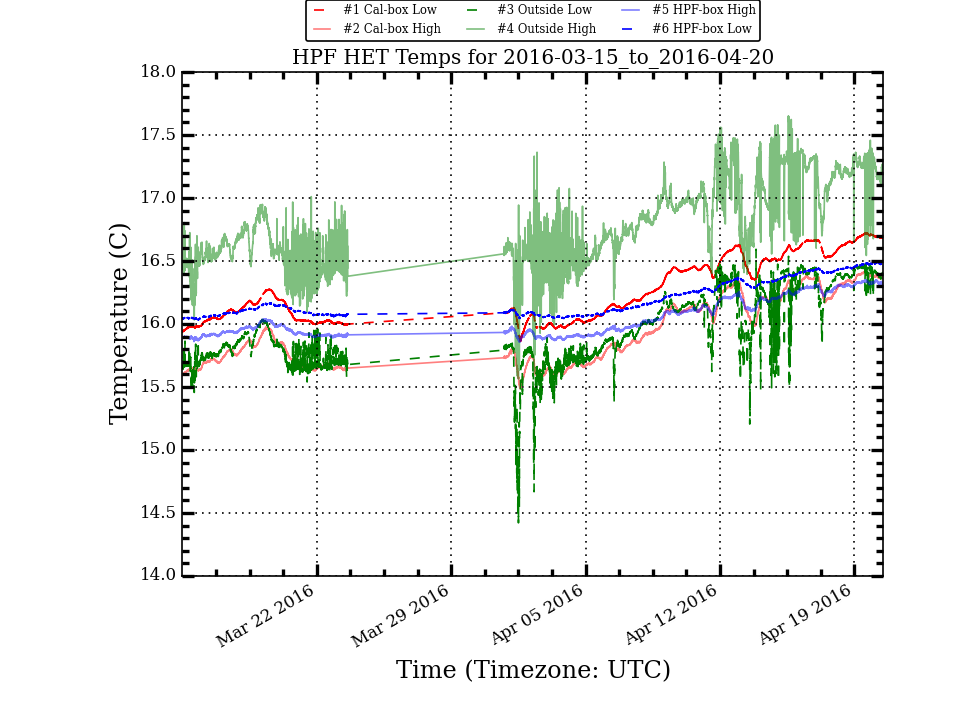
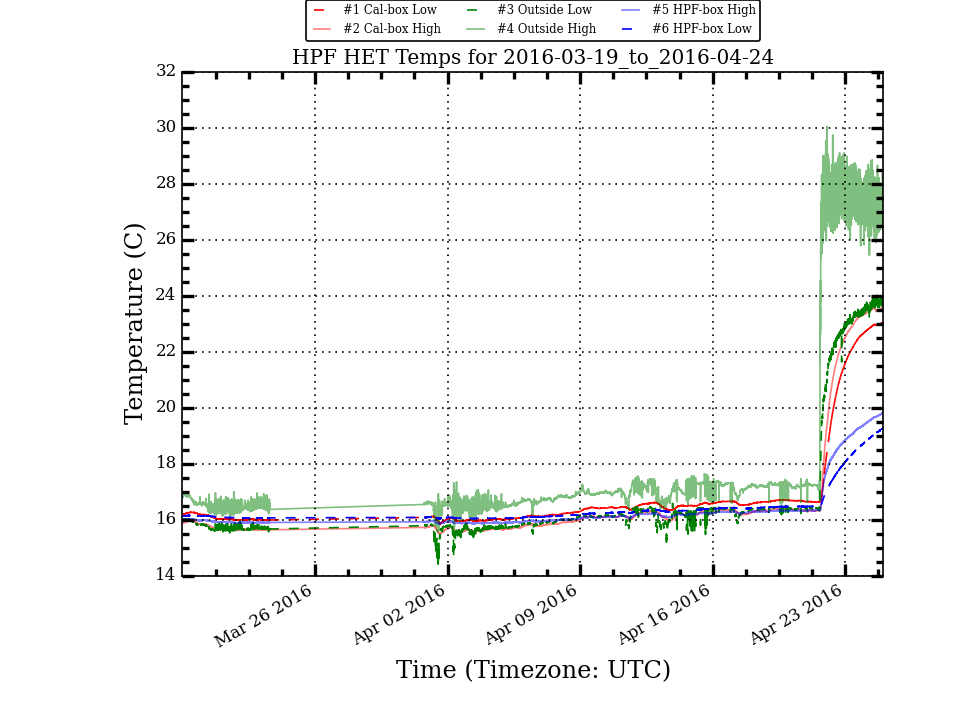
Update HPF Temp Plots

diff --git a/research/hpf_temps/plots/LakeShoreLogTotal_week_stats.html b/research/hpf_temps/plots/LakeShoreLogTotal_week_stats.html
@@ -10,56 +10,56 @@
  </TR>
  <TR>
   <TD>Cal_Low</TD>
-  <TD>16.609</TD>
-  <TD>0.072</TD>
-  <TD>16.622</TD>
-  <TD>16.721</TD>
-  <TD>16.411</TD>
-  <TD>0.310</TD>
+  <TD>18.903</TD>
+  <TD>2.659</TD>
+  <TD>16.713</TD>
+  <TD>23.061</TD>
+  <TD>16.565</TD>
+  <TD>6.496</TD>
  </TR>
  <TR>
   <TD>Cal_High</TD>
-  <TD>16.300</TD>
-  <TD>0.077</TD>
-  <TD>16.319</TD>
-  <TD>16.424</TD>
-  <TD>16.096</TD>
-  <TD>0.328</TD>
+  <TD>19.104</TD>
+  <TD>3.143</TD>
+  <TD>16.407</TD>
+  <TD>23.591</TD>
+  <TD>16.249</TD>
+  <TD>7.342</TD>
  </TR>
  <TR>
   <TD>Out_Low</TD>
-  <TD>16.335</TD>
-  <TD>0.132</TD>
-  <TD>16.383</TD>
-  <TD>16.537</TD>
-  <TD>15.471</TD>
-  <TD>1.066</TD>
+  <TD>19.414</TD>
+  <TD>3.267</TD>
+  <TD>16.460</TD>
+  <TD>24.036</TD>
+  <TD>16.188</TD>
+  <TD>7.848</TD>
  </TR>
  <TR>
   <TD>Out_High</TD>
-  <TD>17.209</TD>
-  <TD>0.153</TD>
-  <TD>17.245</TD>
-  <TD>17.650</TD>
+  <TD>22.113</TD>
+  <TD>5.135</TD>
+  <TD>17.350</TD>
+  <TD>30.048</TD>
   <TD>16.544</TD>
-  <TD>1.106</TD>
+  <TD>13.504</TD>
  </TR>
  <TR>
   <TD>HPF_High</TD>
-  <TD>16.274</TD>
-  <TD>0.047</TD>
-  <TD>16.287</TD>
-  <TD>16.351</TD>
-  <TD>16.169</TD>
-  <TD>0.182</TD>
+  <TD>17.537</TD>
+  <TD>1.384</TD>
+  <TD>16.350</TD>
+  <TD>19.838</TD>
+  <TD>16.282</TD>
+  <TD>3.556</TD>
  </TR>
  <TR>
   <TD>HPF_Low</TD>
-  <TD>16.415</TD>
-  <TD>0.047</TD>
-  <TD>16.422</TD>
-  <TD>16.488</TD>
-  <TD>16.311</TD>
-  <TD>0.177</TD>
+  <TD>17.293</TD>
+  <TD>1.014</TD>
+  <TD>16.493</TD>
+  <TD>19.281</TD>
+  <TD>16.419</TD>
+  <TD>2.862</TD>
  </TR>
 </TABLE>

diff --git a/research/hpf_temps/plots/LakeShoreLogTotal_month_stats.html b/research/hpf_temps/plots/LakeShoreLogTotal_month_stats.html
@@ -10,56 +10,56 @@
  </TR>
  <TR>
   <TD>Cal_Low</TD>
-  <TD>16.268</TD>
-  <TD>0.249</TD>
-  <TD>16.186</TD>
-  <TD>16.721</TD>
+  <TD>16.901</TD>
+  <TD>1.744</TD>
+  <TD>16.422</TD>
+  <TD>23.061</TD>
   <TD>15.865</TD>
-  <TD>0.856</TD>
+  <TD>7.196</TD>
  </TR>
  <TR>
   <TD>Cal_High</TD>
-  <TD>15.939</TD>
-  <TD>0.267</TD>
-  <TD>15.855</TD>
-  <TD>16.424</TD>
+  <TD>16.698</TD>
+  <TD>2.072</TD>
+  <TD>16.105</TD>
+  <TD>23.591</TD>
   <TD>15.487</TD>
-  <TD>0.937</TD>
+  <TD>8.104</TD>
  </TR>
  <TR>
   <TD>Out_Low</TD>
-  <TD>15.965</TD>
-  <TD>0.298</TD>
-  <TD>15.893</TD>
-  <TD>16.593</TD>
+  <TD>16.788</TD>
+  <TD>2.205</TD>
+  <TD>16.105</TD>
+  <TD>24.036</TD>
   <TD>14.422</TD>
-  <TD>2.171</TD>
+  <TD>9.614</TD>
  </TR>
  <TR>
   <TD>Out_High</TD>
-  <TD>16.783</TD>
-  <TD>0.345</TD>
-  <TD>16.718</TD>
-  <TD>17.650</TD>
+  <TD>18.064</TD>
+  <TD>3.426</TD>
+  <TD>16.922</TD>
+  <TD>30.048</TD>
   <TD>15.564</TD>
-  <TD>2.086</TD>
+  <TD>14.484</TD>
  </TR>
  <TR>
   <TD>HPF_High</TD>
-  <TD>16.049</TD>
-  <TD>0.150</TD>
-  <TD>15.984</TD>
-  <TD>16.351</TD>
+  <TD>16.404</TD>
+  <TD>0.943</TD>
+  <TD>16.102</TD>
+  <TD>19.838</TD>
   <TD>15.857</TD>
-  <TD>0.494</TD>
+  <TD>3.981</TD>
  </TR>
  <TR>
   <TD>HPF_Low</TD>
-  <TD>16.200</TD>
-  <TD>0.142</TD>
-  <TD>16.137</TD>
-  <TD>16.488</TD>
-  <TD>16.033</TD>
-  <TD>0.455</TD>
+  <TD>16.460</TD>
+  <TD>0.695</TD>
+  <TD>16.253</TD>
+  <TD>19.281</TD>
+  <TD>16.043</TD>
+  <TD>3.238</TD>
  </TR>
 </TABLE>
